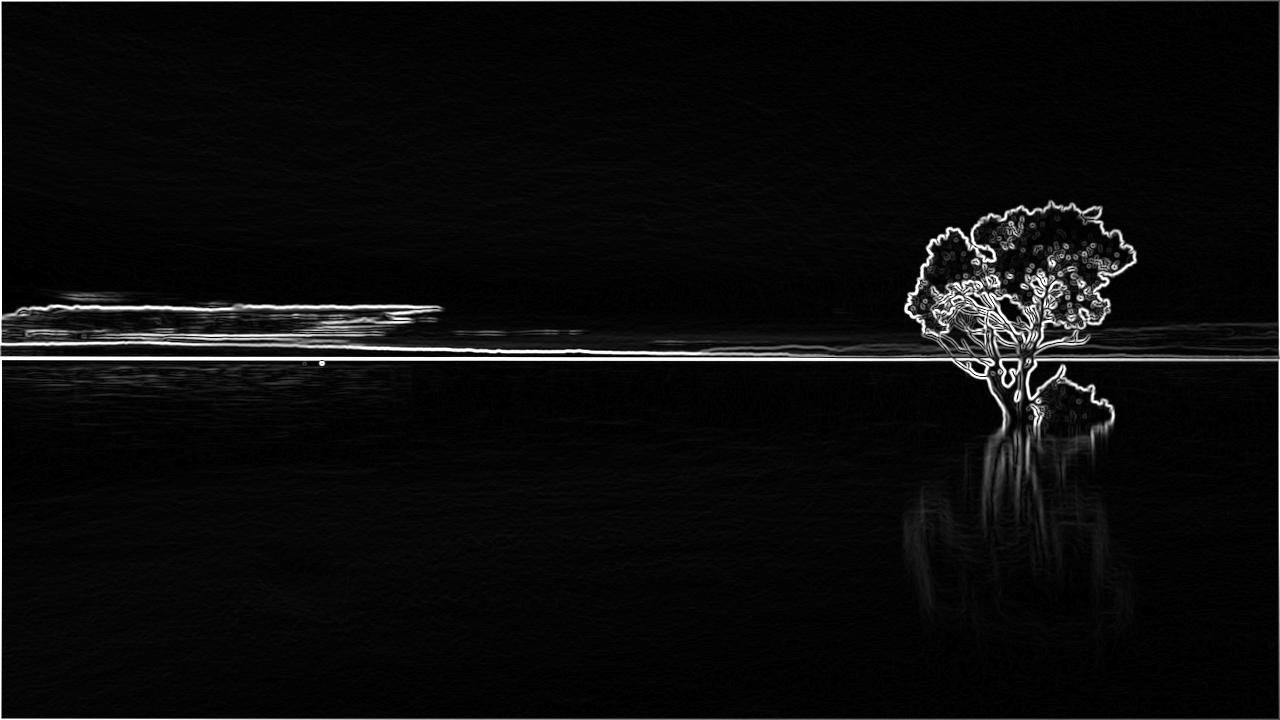
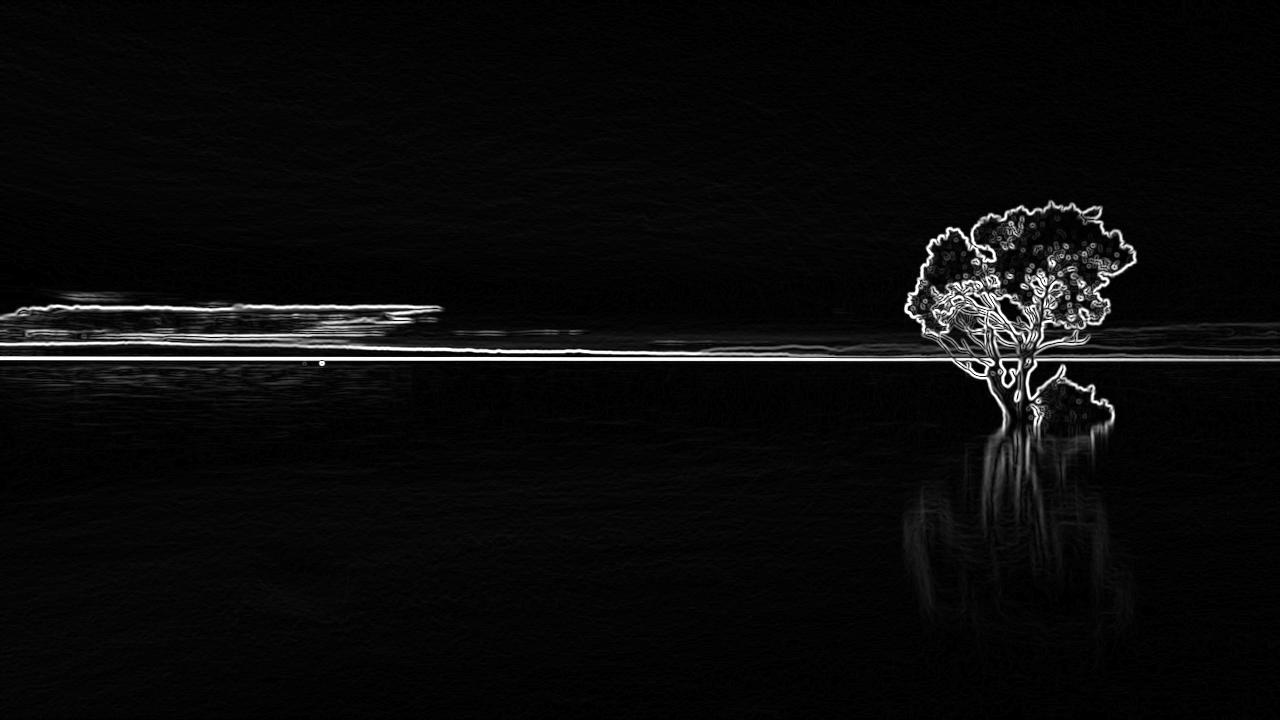
wip

Changed region(s): [[0.0, 0.9778, 1.0, 1.0], [0.9688, 0.0, 1.0, 0.0306], [0.0, 0.0, 0.0312, 0.0306]]

diff --git a/source/filters.py b/source/filters.py
@@ -8,7 +8,7 @@ class BaseFilter:
     Abstract base class for image filters.
     """
 
-    def apply(self, image: CustomImage) -> CustomImage:
+    def apply(self, image: CustomImage) -> None:
         """
         Apply the filter to the given image.
 
@@ -27,24 +27,47 @@ class BaseFilter:
     def convolve(image_array: np.ndarray, kernel: np.ndarray) -> np.ndarray:
         """
         Perform convolution on the given image array using the specified kernel.
+
+        Args:
+            image_array (np.ndarray): The input image as a 2D (grayscale) or 3D (color) numpy array.
+            kernel (np.ndarray): The convolution kernel as a 2D numpy array.
+
+        Returns:
+            np.ndarray: The convolved image as a numpy array. The output will match the input dimensions.
+
+        Raises:
+            ValueError: If the kernel dimensions are greater than the image dimensions.
         """
-        if image_array.ndim == 2:  # If grayscale, add a third dimension
+        # Ensure the image is at least 3D (handle grayscale images by adding a channel dimension).
+        if image_array.ndim == 2:
             image_array = image_array[:, :, np.newaxis]
 
         kernel_height, kernel_width = kernel.shape
-        pad_height, pad_width = kernel_height // 2, kernel_width // 2
-        padded_image = np.pad(image_array, [(pad_height, pad_height), (pad_width, pad_width), (0, 0)],
-                              mode='constant', constant_values=0)
+        if kernel_height > image_array.shape[0] or kernel_width > image_array.shape[1]:
+            raise ValueError("Kernel size cannot be greater than image dimensions.")
 
+        pad_height, pad_width = kernel_height // 2, kernel_width // 2
+
+        # Pads with the reflection of the vector mirrored on the first and last values of the vector along each axis.
+        # For example, padding [1,2,3,4,5] with 2 elements on each side will result in [3,2,1,2,3,4,5,4,3].
+        padded_image = np.pad(image_array,
+                              ((pad_height, pad_height), (pad_width, pad_width), (0, 0)),
+                              mode='reflect')
+
+        # Prepare an output array of the same shape as the input.
         output_array = np.zeros_like(image_array)
+
+        # Perform convolution operation.
         for i in range(image_array.shape[0]):
             for j in range(image_array.shape[1]):
-                for k in range(image_array.shape[2]):
+                for k in range(image_array.shape[2]):  # Handle each channel independently.
                     region = padded_image[i:i + kernel_height, j:j + kernel_width, k]
                     output_array[i, j, k] = np.sum(region * kernel)
 
-        if output_array.shape[2] == 1:  # If originally grayscale, remove the third dimension
-            output_array = output_array[:, :, 0]
+        # If the original image was grayscale (single channel), remove the singleton dimension.
+        if output_array.shape[2] == 1:
+            output_array = output_array.squeeze(axis=2)
+
         return output_array
 
 
@@ -73,7 +96,7 @@ class EdgeDetectionFilter(BaseFilter):
         edges_x = self.convolve(image_array, sobel_x)
         edges_y = self.convolve(image_array, sobel_y)
         combined_edges = np.hypot(edges_x, edges_y)
-        edge_image = Image.fromarray(np.clip(combined_edges, 0, 255).astype('uint8'))
+        edge_image = Image.fromarray(np.clip(combined_edges, CustomImage.MIN_INTENSITY, CustomImage.MAX_INTENSITY).astype('uint8'))
         custom_image.set_image(edge_image)  # Update the CustomImage with the edge-detected image
 
 
@@ -86,6 +109,5 @@ class SharpenFilter(BaseFilter):
         image_array = np.array(custom_image.convert_to_rgb().get_image(), dtype=np.float32)
         sharpen_kernel = np.array([[0, -1, 0], [-1, 5, -1], [0, -1, 0]])
         sharpened_array = self.convolve(image_array, sharpen_kernel)
-        sharpened_image = Image.fromarray(np.clip(sharpened_array, 0, 255).astype('uint8'))
+        sharpened_image = Image.fromarray(np.clip(sharpened_array, CustomImage.MIN_INTENSITY, CustomImage.MAX_INTENSITY).astype('uint8'))
         custom_image.set_image(sharpened_image)  # Update the CustomImage with the sharpened image
-

diff --git a/source/custom_image.py b/source/custom_image.py
@@ -7,6 +7,8 @@ class CustomImage:
     CustomImage provides a wrapper around the PIL Image library, encapsulating common image
     operations for ease of use in other parts of an application.
     """
+    MAX_INTENSITY = 255
+    MIN_INTENSITY = 0
 
     def __init__(self, path: str):
         """
